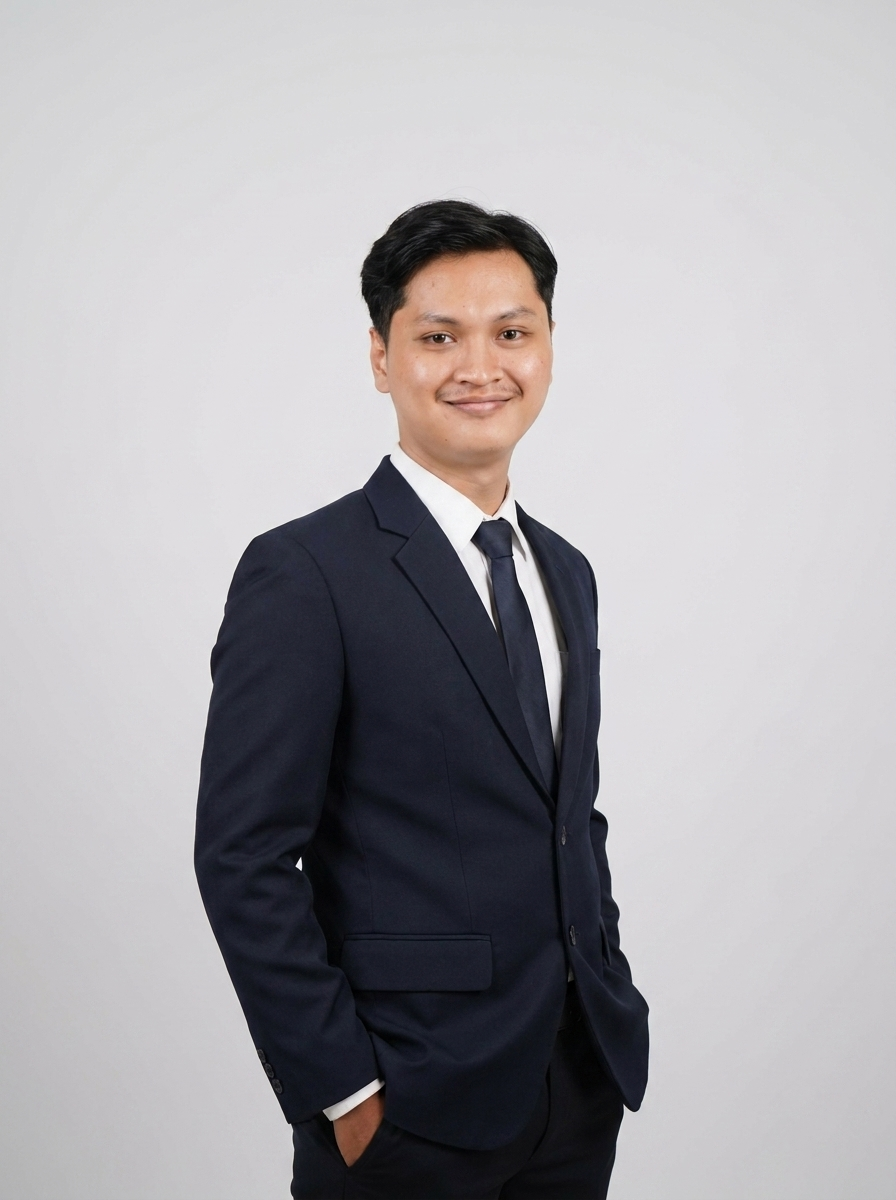
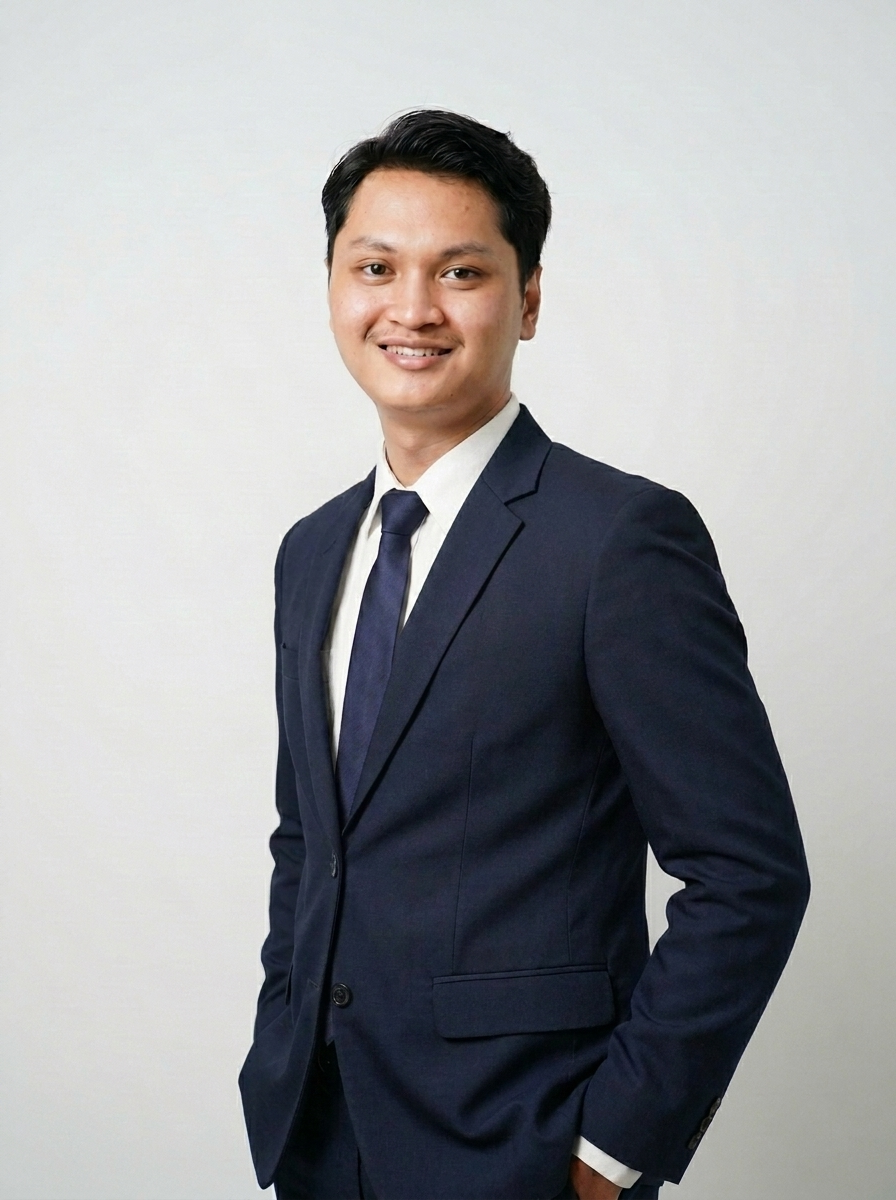
Update founder profiles in AboutSection with new roles, subtitles, and bios. Add new founder Haikal and update existing founder Fahri's information. Replace layout for founder cards to enhance visual representation.

diff --git a/src/components/sections/AboutSection.tsx b/src/components/sections/AboutSection.tsx
@@ -19,27 +19,39 @@ const CARD_BG = "/images/founders/card-bg.webp";
 const founders = [
   {
     name: "Unggul Sulaiman",
-    role: "Founder & Lead Tech Engineer",
-    bio: "Nahkoda arsitektur Full-Stack dan rekayasa AI. Pengalaman akademis sebagai Guru, Asisten Lab, dan Dosen Tamu yang menerjemahkan komputasi kompleks menjadi hal yang mudah dipahami.",
+    role: "CEO & Founder of InspiraLabs",
+    subtitle: "Project Management & Business Strategy",
+    bio: "Memimpin arah bisnis dan strategi InspiraLabs. Bertanggung jawab atas perencanaan proyek, hubungan klien, dan pengembangan perusahaan.",
     initials: "US",
     photo: "/images/founders/unggul.webp",
     accent: "border-l-gold-antique",
   },
   {
-    name: "Fahri Priandana",
-    role: "Creative Director & Lead UI/UX Designer",
-    bio: "Konseptor estetika yang memastikan setiap proyek bernapas dan hidup. Menyatukan kekuatan engineering teknis dengan antarmuka artistik berstandar global.",
-    initials: "FP",
-    photo: "/images/founders/fahri.webp",
+    name: "Alif Ayatulloh Ar-Rizqy",
+    role: "CTO & Founder of InspiraLabs",
+    subtitle: "Software Engineer & IoT Specialist",
+    bio: "Memimpin keputusan teknis dan arsitektur sistem. Membangun aplikasi web, mobile, dan IoT yang menjadi produk utama InspiraLabs.",
+    initials: "AA",
+    photo: "/images/founders/alif.webp",
     accent: "border-l-maroon-vibrant",
   },
   {
-    name: "Alif Ayatulloh Ar-Rizqy",
-    role: "Software Engineer & IoT Engineer",
-    bio: "Arsitek perangkat lunak dan sistem IoT yang merancang alur data dari sensor hingga dashboard. Mengubah logika embedded dan backend menjadi solusi yang rapi, terukur, dan siap dipakai tim lapangan.",
-    initials: "AA",
-    photo: "/images/founders/alif.webp",
+    name: "M. H. Haikal",
+    role: "COO of InspiraLabs",
+    subtitle: "Operations & Administration",
+    bio: "Mengelola operasional harian, dokumentasi, dan koordinasi tim. Memastikan setiap proyek berjalan teratur dari kickoff hingga delivery.",
+    initials: "HK",
+    photo: "/images/founders/haikal.webp",
     accent: "border-l-gold-bright",
+  },
+  {
+    name: "Fahri Priandana",
+    role: "Creative Director of InspiraLabs",
+    subtitle: "Visual Design & Branding",
+    bio: "Memimpin arah visual dan branding. Menangani desain logo, UI, dan konten kreatif yang konsisten di seluruh platform.",
+    initials: "FP",
+    photo: "/images/founders/fahri.webp",
+    accent: "border-l-maroon-deep",
   },
 ];
 
@@ -75,6 +87,9 @@ function FounderCard({ founder: f }: { founder: (typeof founders)[number] }) {
             {f.name}
           </h4>
           <p className="text-xs font-medium text-gold-antique">{f.role}</p>
+          <p className="text-[11px] text-[var(--color-text-secondary)]">
+            {f.subtitle}
+          </p>
         </div>
       </div>
       <div className="p-5">
@@ -176,7 +191,7 @@ export default function AboutSection() {
         <h3 className="mt-12 font-display text-2xl font-bold text-maroon-deep">
           Siapa di Balik InspiraLabs?
         </h3>
-        <div className="mt-6 grid gap-6 md:grid-cols-3">
+        <div className="mt-6 grid gap-6 sm:grid-cols-2 lg:grid-cols-4">
           {founders.map((f) => (
             <FounderCard key={f.name} founder={f} />
           ))}